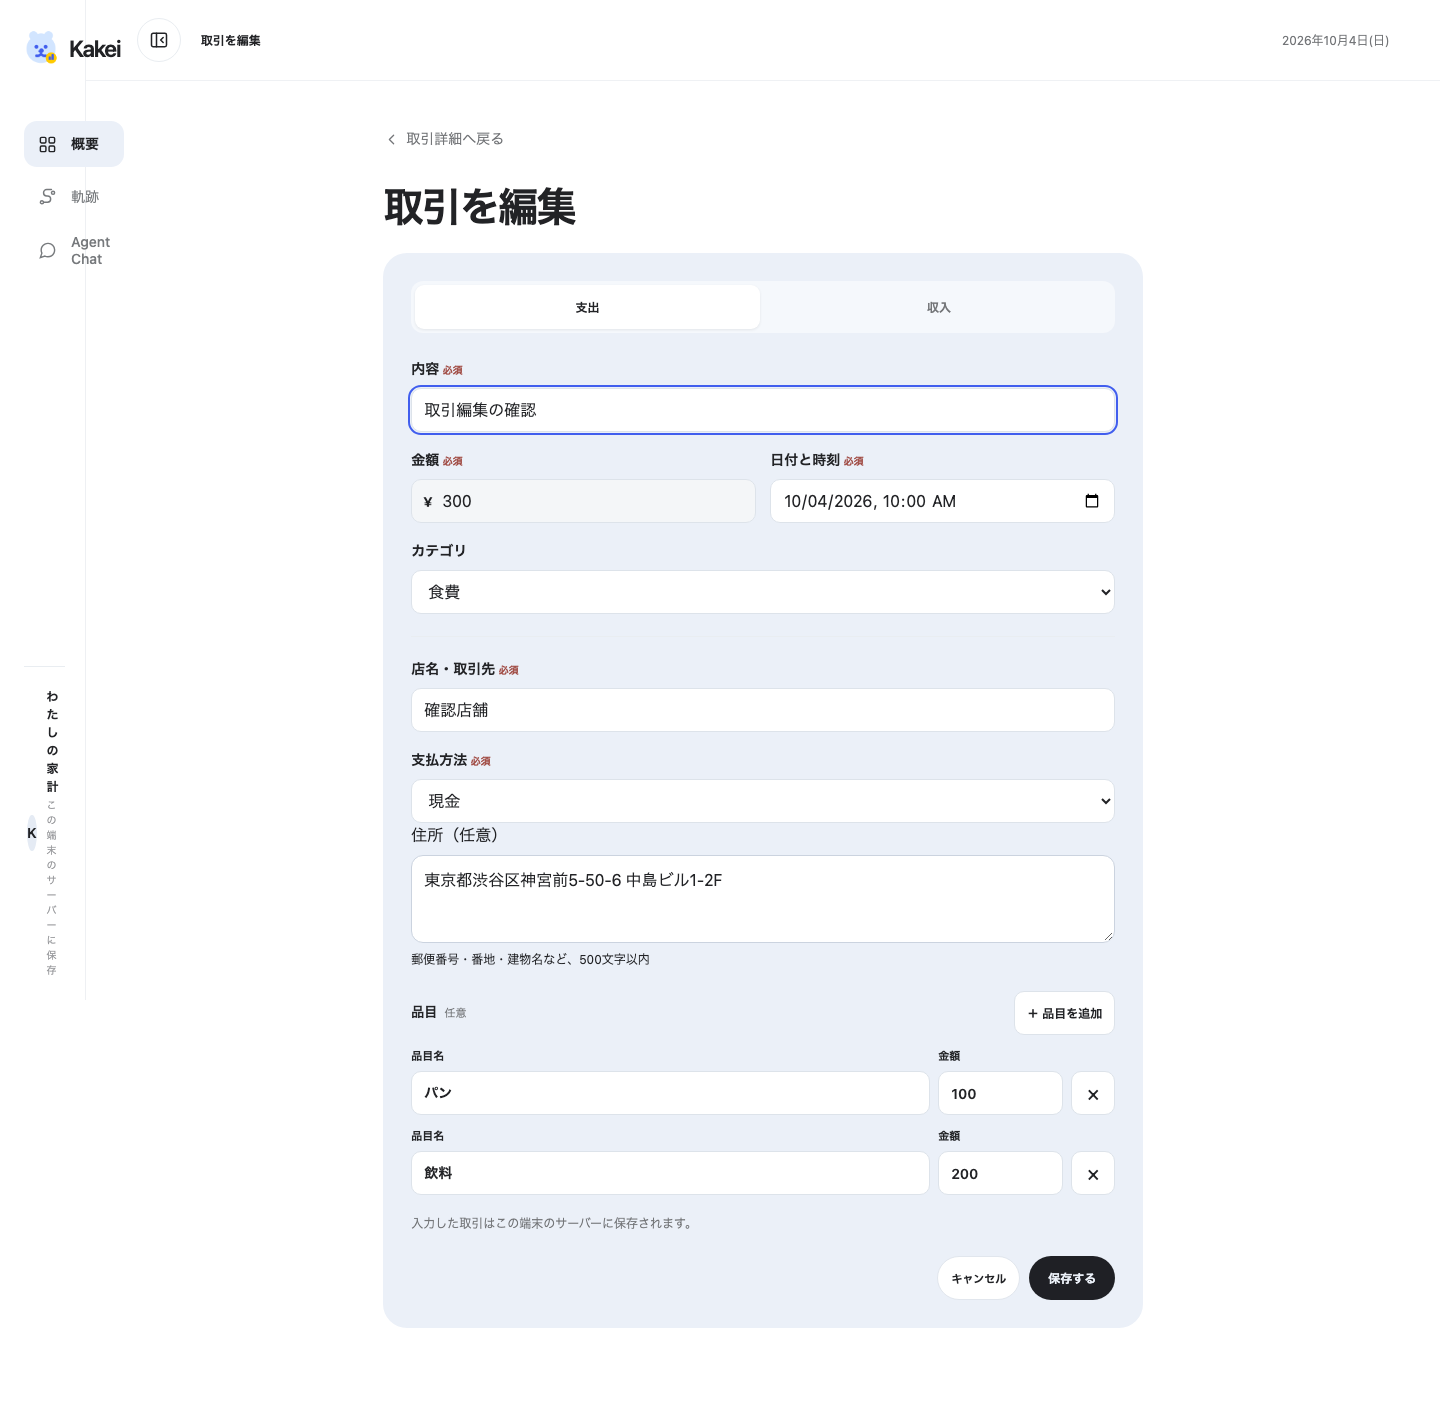
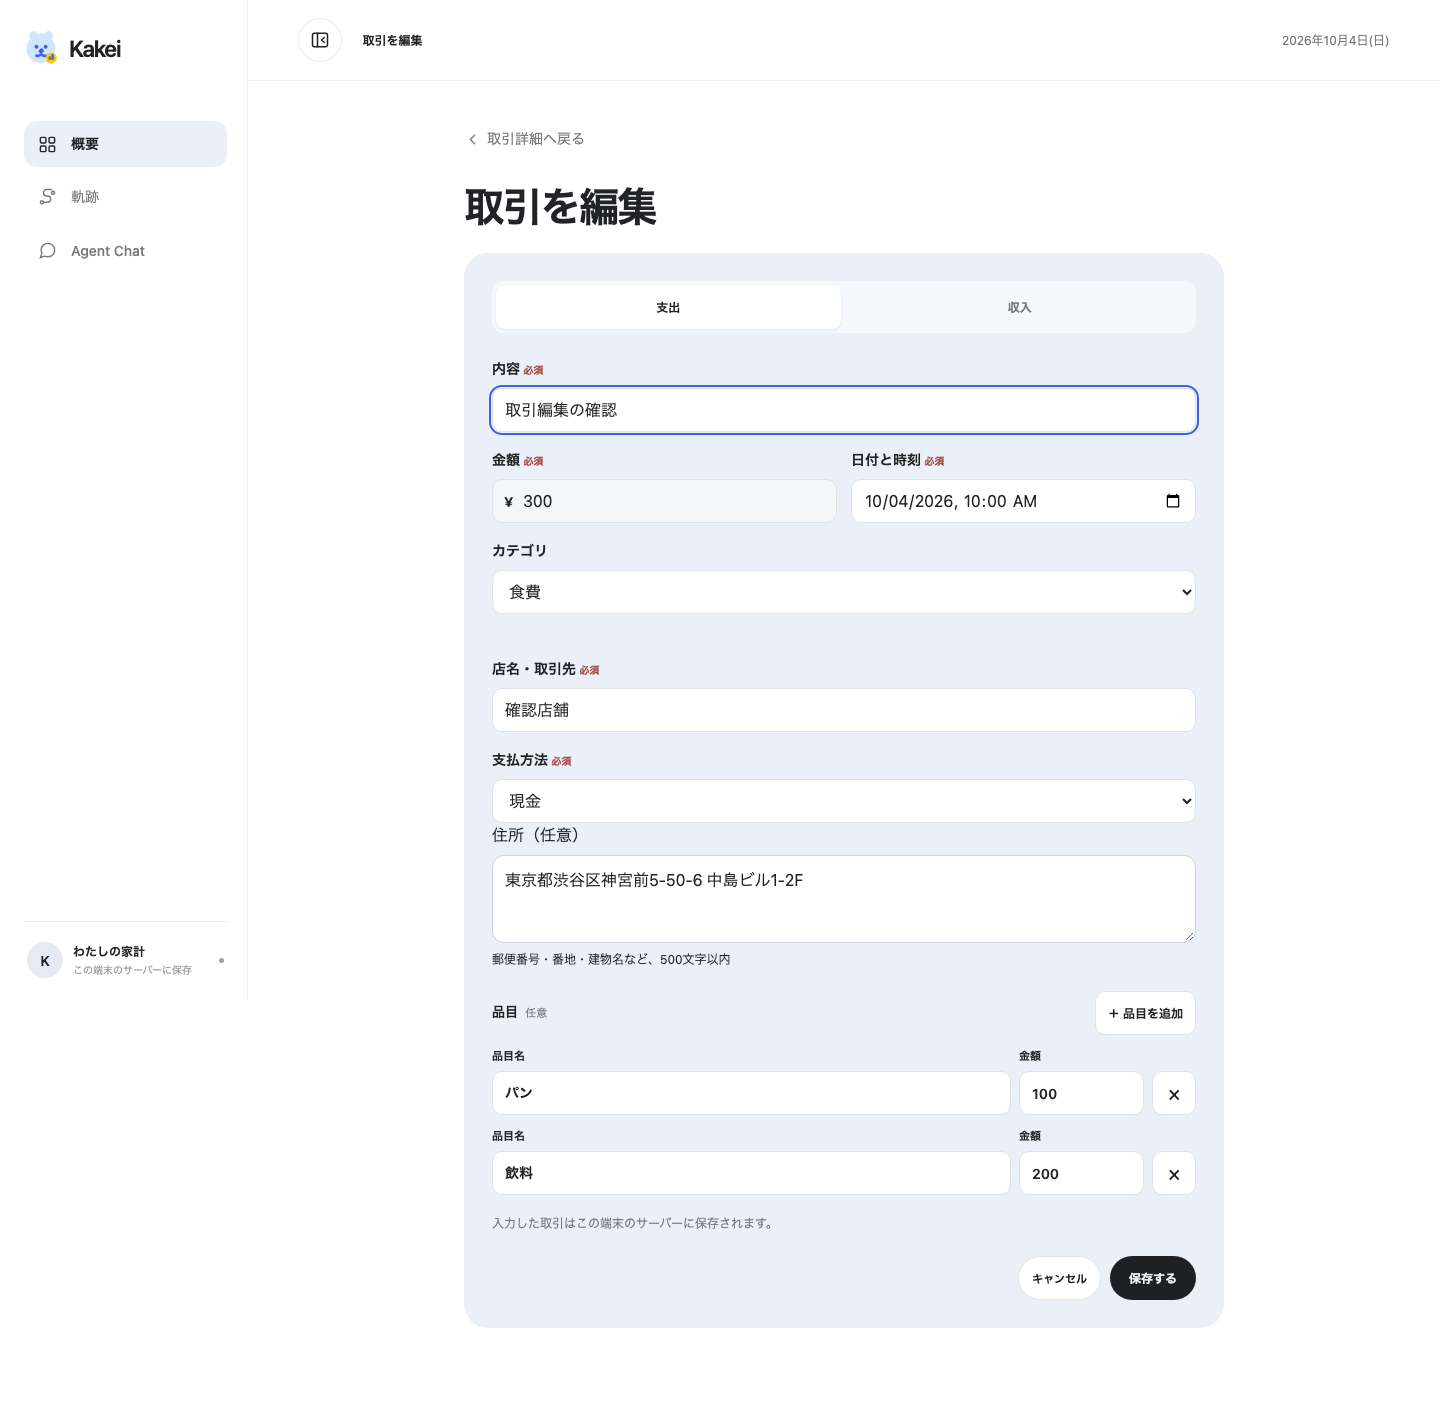
fix: preserve edit recovery and handle legacy categories

diff --git a/front/src/TransactionForm.jsx b/front/src/TransactionForm.jsx
@@ -7,9 +7,9 @@ import { parseExpenseDraft, readExpenseDetails, ValidationError } from './lib/tr
 import { dateTimeLocalValue, isValidTransactionDateTime } from './lib/transaction-datetime.js';
 
 const maxAmount = 999999999;
-const baseFieldIds = { title: 'title-input', amount: 'amount-input', date: 'date-input', merchant: 'merchant-input', merchantAddress: 'merchant-address-input', paymentMethod: 'payment-method-input', itemRows: 'item-rows' };
+const baseFieldIds = { title: 'title-input', amount: 'amount-input', date: 'date-input', category:'category-input', merchant: 'merchant-input', merchantAddress: 'merchant-address-input', paymentMethod: 'payment-method-input', itemRows: 'item-rows' };
 
-export default function TransactionForm({ record = null, busy = false, onCancel, onSubmit, onSaved, prefix = '' }) {
+export default function TransactionForm({ record = null, busy = false, saveDisabled = false, onCancel, onSubmit, onSaved, prefix = '' }) {
   const form = useRef(null);
   const initial = readExpenseDetails(record);
   const fieldIds = Object.fromEntries(Object.entries(baseFieldIds).map(([key,value])=>[key,prefix+value]));
@@ -31,6 +31,7 @@ export default function TransactionForm({ record = null, busy = false, onCancel,
   const itemized = type === 'expense' && itemRows.length > 0;
   const validItems = itemRows.every((row) => row.name.trim() && /^\d+$/.test(row.amount.trim()) && Number(row.amount) > 0);
   const itemTotal = itemRows.reduce((sum, row) => sum + Number(row.amount), 0);
+  const allowedCategories = type === 'income' ? ['収入'] : categories.map(item=>item.name);
   const amount = itemized ? validItems && itemTotal <= maxAmount ? String(itemTotal) : '' : manualAmount;
 
   const showError = (field, message) => {
@@ -61,11 +62,12 @@ export default function TransactionForm({ record = null, busy = false, onCancel,
 
   const submit = async (event) => {
     event.preventDefault();
-    if (blocked || pending.current) return;
+    if (blocked || saveDisabled || pending.current) return;
     setErrors({}); setFormError('');
     const cleanTitle = title.trim();
     if (!cleanTitle) { showError('title', '内容を入力してください。'); return; }
     if (!isValidTransactionDateTime(date)) { showError('date', '正しい日時を入力してください。'); return; }
+    if (!allowedCategories.includes(category)) { showError('category', 'カテゴリを選び直してください。'); return; }
     let parsedAmount;
     let details = {};
     if (type === 'expense') {
@@ -86,7 +88,7 @@ export default function TransactionForm({ record = null, busy = false, onCancel,
       await onSubmit({ title: cleanTitle, amount: parsedAmount, date, type, category, ...details });
       onSaved?.();
     } catch (cause) {
-      if (cause instanceof ApiError && cause.status === 400 && ['title', 'date', 'amount', 'merchant', 'merchantAddress', 'paymentMethod', 'items'].includes(cause.field)) {
+      if (cause instanceof ApiError && cause.status === 400 && ['title', 'date', 'amount', 'category', 'merchant', 'merchantAddress', 'paymentMethod', 'items'].includes(cause.field)) {
         showError(cause.field === 'items' ? 'itemRows' : cause.field, cause.message);
       } else {
         setFormError(cause instanceof ApiError && cause.status === 404 ? cause.message : '保存できませんでした。サーバーへの接続を確認して再試行してください。');
@@ -104,7 +106,7 @@ export default function TransactionForm({ record = null, busy = false, onCancel,
         <label className="field full"><span>内容 <em>必須</em></span><input id={`${prefix}title-input`} name="title" type="text" maxLength="60" placeholder="例：スーパーで買い物" aria-describedby={`${prefix}title-error`} aria-invalid={!!errors.title || undefined} required disabled={blocked} value={title} onChange={(event) => setTitle(event.target.value)} /><small id={`${prefix}title-error`} role="alert" className="field-error" hidden={!errors.title}>{errors.title}</small></label>
         <label className="field"><span>金額 <em>必須</em></span><span className="yen-input"><b>¥</b><input id={`${prefix}amount-input`} name="amount" type="number" inputMode="numeric" min="1" max="999999999" placeholder="0" aria-describedby={`${prefix}amount-error`} aria-invalid={!!errors.amount || undefined} disabled={blocked} required={!itemized} readOnly={itemized} value={amount} onChange={(event) => setManualAmount(event.target.value)} /></span><small id={`${prefix}amount-error`} role="alert" className="field-error" hidden={!errors.amount}>{errors.amount}</small></label>
         <label className="field"><span>日付と時刻 <em>必須</em></span><input id={`${prefix}date-input`} name="date" type="datetime-local" step="60" aria-describedby={`${prefix}date-error`} aria-invalid={!!errors.date || undefined} required disabled={blocked} value={date} onChange={(event) => setDate(event.target.value)} /><small id={`${prefix}date-error`} role="alert" className="field-error" hidden={!errors.date}>{errors.date}</small></label>
-        <label className="field full"><span>カテゴリ</span><select id={`${prefix}category-input`} name="category" disabled={blocked} value={category} onChange={(event) => setCategory(event.target.value)}>{(type === 'income' ? ['収入'] : categories.map((item) => item.name)).map((name) => <option key={name} value={name}>{name}</option>)}</select></label>
+        <label className="field full"><span>カテゴリ</span><select id={`${prefix}category-input`} name="category" aria-describedby={`${prefix}category-error`} aria-invalid={!!errors.category || undefined} disabled={blocked} value={category} onChange={(event) => setCategory(event.target.value)}>{!allowedCategories.includes(category) && <option value={category} disabled>{category}（選び直してください）</option>}{allowedCategories.map((name) => <option key={name} value={name}>{name}</option>)}</select><small id={`${prefix}category-error`} role="alert" className="field-error" hidden={!errors.category}>{errors.category}</small></label>
       </div>
       <div id={`${prefix}expense-fields`} className="expense-fields" hidden={type !== 'expense'}>
         <div className="form-grid"><label className="field full"><span>店名・取引先 <em>必須</em></span><input id={`${prefix}merchant-input`} name="merchant" type="text" maxLength="60" placeholder="例：スーパー○○" aria-describedby={`${prefix}merchant-error`} aria-invalid={!!errors.merchant || undefined} required={type === 'expense'} disabled={type !== 'expense' || blocked} value={merchant} onChange={(event) => setMerchant(event.target.value)} /><small id={`${prefix}merchant-error`} role="alert" className="field-error" hidden={!errors.merchant}>{errors.merchant}</small></label><label className="field full"><span>支払方法 <em>必須</em></span><select id={`${prefix}payment-method-input`} name="paymentMethod" aria-describedby={`${prefix}payment-method-error`} aria-invalid={!!errors.paymentMethod || undefined} required={type === 'expense'} disabled={type !== 'expense' || blocked} value={paymentMethod} onChange={(event) => setPaymentMethod(event.target.value)}><option value="">選択してください</option><option value="cash">現金</option><option value="credit_card">クレジットカード</option><option value="e_money">電子マネー</option><option value="bank_account">銀行口座</option></select><small id={`${prefix}payment-method-error`} role="alert" className="field-error" hidden={!errors.paymentMethod}>{errors.paymentMethod}</small></label></div>
@@ -115,6 +117,6 @@ export default function TransactionForm({ record = null, busy = false, onCancel,
       <p id={`${prefix}form-error`} className="field-error form-error" role="alert" hidden={!formError}>{formError}</p>
       {record?.timeEstimated && date === record.date && <p className="form-note">元の時刻は仮設定です。日時を変更すると入力時刻として保存します。</p>}
       <p className="form-note" id={`${prefix}form-note`}>入力した取引はこの端末のサーバーに保存されます。</p>
-      <div className="dialog-actions"><button type="button" className="secondary-button close-dialog" onClick={onCancel} disabled={blocked}>キャンセル</button><button type="submit" className="primary-button" disabled={blocked}>{!record && <Icon name="plus" />}{submitting ? '保存中…' : record ? '保存する' : '追加する'}</button></div>
+      <div className="dialog-actions"><button type="button" className="secondary-button close-dialog" onClick={onCancel} disabled={blocked}>キャンセル</button><button type="submit" className="primary-button" disabled={blocked || saveDisabled}>{!record && <Icon name="plus" />}{submitting ? '保存中…' : record ? '保存する' : '追加する'}</button></div>
   </form>;
 }

diff --git a/front/src/App.edit.test.jsx b/front/src/App.edit.test.jsx
@@ -3,14 +3,14 @@ import {afterEach,expect,it,vi} from 'vitest';
 import {cleanup,fireEvent,render,screen,waitFor} from '@testing-library/react';
 import App from './App.jsx';
 const initial={id:'a/b 日本語',title:'買物',date:'2026-10-01T12:00',type:'expense',category:'食費',amount:300,merchant:'店',merchantAddress:'住所A',paymentMethod:'cash',items:[{name:'パン',amount:100},{name:'飲物',amount:200}],timeEstimated:true};
-function setup({fail=false,refreshFail=false}={}){
- let record={...initial},saved=false;
+function setup({fail=false,refreshFail=false,category=initial.category,backgroundFail=false}={}){
+ let record={...initial,category},saved=false,reads=0;
  window.scrollTo=vi.fn();window.location.hash='#transaction/a%2Fb%20%E6%97%A5%E6%9C%AC%E8%AA%9E/edit';
  vi.stubGlobal('fetch',vi.fn(async(url,options={})=>{
   let body={},status=200;
   if(url==='/api/status')body={initialized:true};
   else if(url==='/api/transactions'){
-   if(saved&&refreshFail){status=503;body={error:{message:'offline'}};}else body={transactions:[record]};
+   if((saved&&refreshFail)||(backgroundFail&&reads++>0)){status=503;body={error:{message:'offline'}};}else body={transactions:[record]};
   }else if(options.method==='PUT'){
    if(fail){status=503;body={error:{message:'offline'}};}else {record={...record,...JSON.parse(options.body)};saved=true;body={transaction:record};}
   }else if(url.includes('transaction-addresses'))body={address:{transactionId:record.id,places:[]}};
@@ -56,4 +56,28 @@ it('shows a missing state for an unknown edit URL',async()=>{
  setup();window.location.hash='#transaction/unknown/edit';render(<App/>);
  await screen.findByRole('heading',{name:'取引が見つかりません'});
  expect(screen.queryByRole('button',{name:'保存する'})).toBeNull();
+});
+
+it('honestly displays a legacy category and requires a supported category before saving',async()=>{
+ const current=setup({category:'旧カテゴリ'});render(<App/>);await screen.findByRole('heading',{name:'取引を編集'});
+ expect(screen.getByRole('combobox',{name:'カテゴリ'}).value).toBe('旧カテゴリ');
+ fireEvent.click(screen.getByRole('button',{name:'保存する'}));
+ await screen.findByText('カテゴリを選び直してください。');
+ expect(current().category).toBe('旧カテゴリ');
+ fireEvent.change(screen.getByRole('combobox',{name:/カテゴリ/}),{target:{value:'日用品'}});
+ fireEvent.click(screen.getByRole('button',{name:'保存する'}));
+ await screen.findByRole('heading',{name:'取引詳細'});expect(current().category).toBe('日用品');
+});
+
+it('allows cancelling unsaved changes after a background refresh fails',async()=>{
+ setup({backgroundFail:true});const visibility=vi.spyOn(document,'visibilityState','get').mockReturnValue('visible');
+ render(<App/>);await screen.findByRole('heading',{name:'取引を編集'});
+ fireEvent.change(screen.getByRole('textbox',{name:/内容/}),{target:{value:'未保存の入力'}});
+ fireEvent(document,new Event('visibilitychange'));
+ await screen.findByText(/最新の取引を読み込めませんでした/);
+ expect(screen.getByRole('textbox',{name:/内容/}).value).toBe('未保存の入力');
+ expect(screen.getByRole('button',{name:'保存する'}).disabled).toBe(true);
+ expect(screen.getByRole('button',{name:'キャンセル',exact:true}).disabled).toBe(false);
+ fireEvent.click(screen.getByRole('button',{name:'キャンセル',exact:true}));
+ await screen.findByRole('heading',{name:'取引詳細'});visibility.mockRestore();
 });

diff --git a/front/src/App.jsx b/front/src/App.jsx
@@ -172,7 +172,7 @@ export default function App() {
       {isAgent && (['ready','stale'].includes(data.status) ? <AgentChat session={agent} onCommitted={async () => { setTrajectoryRevision(v => v + 1); return await data.refresh(true); }} /> : <section><h1 id="agent-heading" tabIndex="-1">Agent Chat</h1>{data.status === 'loading' ? <p role="status">家計データを準備しています…</p> : <div role="alert"><p>家計データを読み込めませんでした。</p><button type="button" className="secondary-button" onClick={data.load}>再試行</button></div>}</section>)}
       {isDetail && (isDelete
         ? <TransactionDelete record={detailRecord} onConfirm={deleteTransaction} error={deleteError} busy={deletePending || data.writePending || data.refreshing || data.status !== 'ready'} />
-        : isEdit ? <TransactionEdit record={detailRecord} onSubmit={updateTransaction} onCancel={cancelEdit} busy={data.writePending || data.refreshing || data.status !== 'ready'}/>
+        : isEdit ? <TransactionEdit record={detailRecord} onSubmit={updateTransaction} onCancel={cancelEdit} busy={data.writePending || data.refreshing} saveDisabled={data.status !== 'ready'}/>
         : <TransactionDetail record={detailRecord} busy={data.writePending || data.refreshing || data.status !== 'ready'} />)}
     </AppShell>
     <TransactionDialog open={dialogOpen} selectedMonth={month} busy={data.writePending || data.refreshing} onClose={closeDialog} onSubmit={submitTransaction} />

diff --git a/front/src/TransactionEdit.jsx b/front/src/TransactionEdit.jsx
@@ -2,10 +2,10 @@ import React from 'react';
 import {Icon} from './AppShell.jsx';
 import TransactionForm from './TransactionForm.jsx';
 import {detailHref} from './lib/transaction-detail.js';
-export default function TransactionEdit({record,busy,onSubmit,onCancel}) {
+export default function TransactionEdit({record,busy,saveDisabled,onSubmit,onCancel}) {
  return <section className="detail-view edit-view" aria-labelledby="edit-heading">
   <a className="detail-back" href={record ? detailHref(record.id) : '#transactions'} aria-disabled={busy||undefined} onClick={e=>{e.preventDefault();if(!busy)onCancel();}}><Icon name="chevron"/>{record?'取引詳細へ戻る':'取引履歴へ戻る'}</a>
   <h1 id="edit-heading" tabIndex="-1">{record?'取引を編集':'取引が見つかりません'}</h1>
-  {record ? <div className="edit-form-card"><TransactionForm key={record.id} record={record} prefix="edit-" busy={busy} onCancel={onCancel} onSubmit={onSubmit} onSaved={onCancel}/></div> : <p>削除されたか、URLが正しくない可能性があります。</p>}
+  {record ? <div className="edit-form-card"><TransactionForm key={record.id} record={record} prefix="edit-" busy={busy} saveDisabled={saveDisabled} onCancel={onCancel} onSubmit={onSubmit} onSaved={onCancel}/></div> : <p>削除されたか、URLが正しくない可能性があります。</p>}
  </section>;
 }

diff --git a/docs/verification/2026-10-04-transaction-edit.md b/docs/verification/2026-10-04-transaction-edit.md
@@ -11,14 +11,23 @@
 
 ## 検証
 
-- Front `npm --prefix front test`: 123件成功。直接編集URL・予約文字ID・更新・品目合計・住所消去・入力保持・キャンセル・再取得失敗・既存レシートリンクを確認。
+- Front `npm --prefix front test`: 125件成功。直接編集URL・予約文字ID・更新・品目合計・住所消去・入力保持・キャンセル・再取得失敗・既存レシートリンクを確認。
 - `npm --prefix front run build`: 成功（既存バンドルサイズ警告あり）。
-- ブラウザは一時DBのFastAPIを使用。保存・再読込・住所と軌跡・CSV・エラー再試行・全項目変更・品目追加削除・収入切替・PC/phoneを確認。
-- 初回ブラウザ検証は2件失敗。カテゴリ選択のラベル照合と、textareaの文字表示を保存完了と誤認して再読込していたテストを修正。画面遷移完了を待ってから検証。
+- ブラウザ21件成功。一時DBのFastAPIを使用。保存・再読込・住所と軌跡・CSV・エラー再試行・全項目変更・品目追加削除・収入切替・PC/phoneを確認。
+- ブラウザ検証中にテストの旧前提による失敗を確認。カテゴリ選択のラベル照合と、textareaの文字表示を保存完了と誤認して再読込していたテストを修正。画面遷移完了を待ってから検証。編集で選択月が10月へ更新されるため、旧テストの「次月を押す」手順も削除。
 - `git diff --check` を実行。
 
 ## 画面
 
 [編集・phone](2026-10-04-transaction-edit/edit-phone.png)、[編集・desktop](2026-10-04-transaction-edit/edit-desktop.png)。本アプリ内の画面として、既存の白背景・淡青カード・丸いボタン・焦点表示を継承。
 
-最終レビュー・ブラウザ件数・main反映は完了後に追記。
+## 最終レビュー
+
+独立レビューの重要指摘2件を再現テストから修正。
+
+- 旧カテゴリ: 画面では食費だが保存値は旧カテゴリだった。現在の値を明示し、有効な選択肢へ変更するまで保存を止め、カテゴリエラーを項目下に表示。RED→GREEN。
+- 背景再取得失敗: stale状態でキャンセルも無効になった。保存不可状態と処理中のロックを分け、入力を維持してキャンセル・戻るを使えるように修正。RED→GREEN。
+- 軽微指摘のPC画像は、既存のサイドバー遷移途中を撮っていたためanimations:disabledで再撮影。サイドバーのコード変更は不要。
+- 取引住所が空欄の場合に軌跡住所を編集値へ自動コピーしない。参照住所を意図せず取引へ保存しないため。
+
+main反映は完了後に追記。
